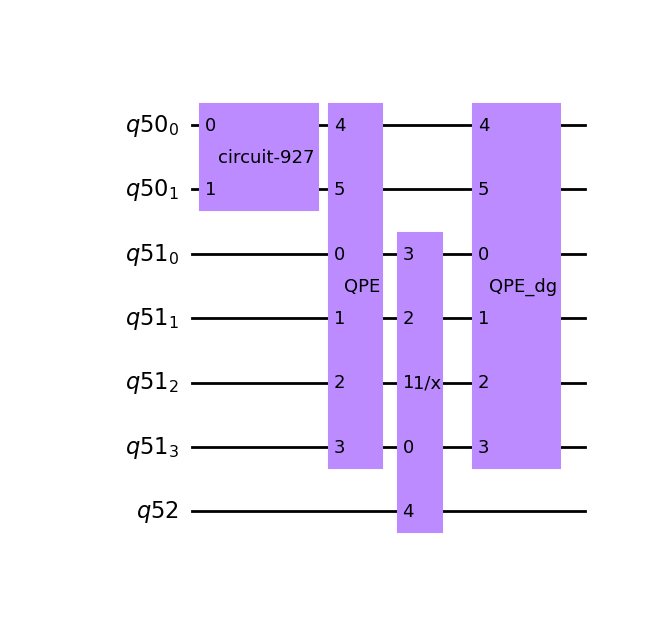
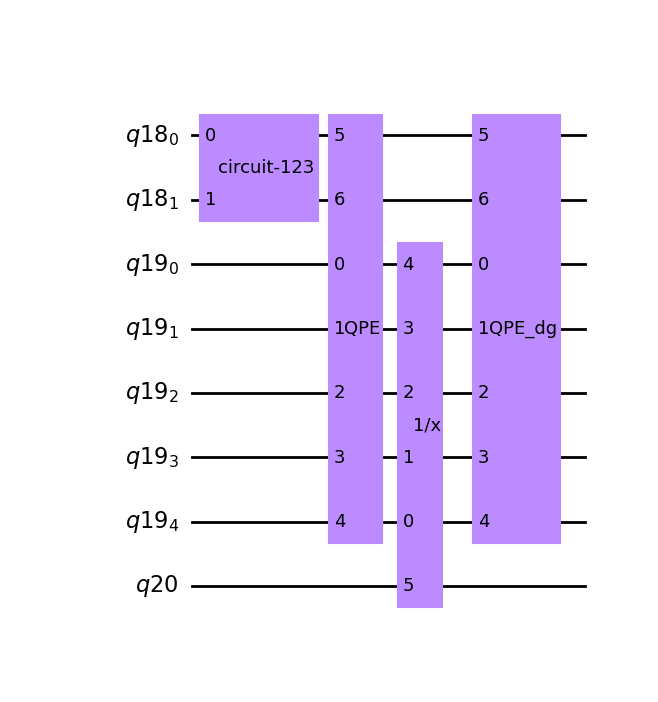
add eigenvalue calculation part so that values are setted properly add statevector simulation part

diff --git a/solver.py b/solver.py
@@ -5,22 +5,36 @@ from qiskit.algorithms.linear_solvers.hhl import HHL
 from qiskit.quantum_info import Statevector
 from normalize import normalize_vector
 from qiskit import QuantumCircuit, ClassicalRegister, QuantumRegister
+from value_setter import value_setter
 
-
-def HHL_my(A, b, delta, wrap = True):
+def HHL_my(A, b, wrap = True, state_vector = True):
     #기초 회로 구성, 입력값: A(행렬), b(벡터), nl(사용하는 qubit의 수, 높을 수록 정확도가 높아짐), delta(evolution time t와 reciprocal 과정에서의 scaling을 결정), wrap(회로를 합쳐서 볼지 결정)
-    nl = 3
-    qc = circuit(A, b, nl, delta, wrap = wrap)
-    #양자 회로를 시뮬레이션하는 코드
-    aer_sim = Aer.get_backend('aer_simulator')
-    shots = 8192
-    t_qpe = transpile(qc, aer_sim)
-    qobj = assemble(t_qpe, shots=shots)
-    results = aer_sim.run(qobj).result()
-    #시뮬레이션된 결과를 dictionary로 받음
-    answer = results.get_counts()
-    #실험 결과를 통해서 noramlize된 결과를 얻음
-    vector = normalize_vector(answer, int(np.log2(len(b))))
+    nl, evolution_time, delta = value_setter(A)
+    qc = circuit(A, b, nl, evolution_time, delta, wrap = wrap, state_vector = state_vector)
+    if state_vector:
+        naive_sv = Statevector(qc).data
+        #qubit수를 확인
+        num_qubit = qc.num_qubits
+        #상태 벡터에서 필요한 상태만을 골라서 저장함
+        #print(naive_sv)
+        naive_full_vector = np.array([naive_sv[2**(num_qubit-1)], naive_sv[2**(num_qubit-1)+1], naive_sv[2**(num_qubit-1)+2], naive_sv[2**(num_qubit-1)+3]])
+        #실수 부분만 취함
+        naive_full_vector = np.real(naive_full_vector)
+        #얻어진 벡터를 normalize하여 반환
+        #print(naive_full_vector)
+        vector = naive_full_vector/np.linalg.norm(naive_full_vector)
+    else:
+        #양자 회로를 시뮬레이션하는 코드
+        aer_sim = Aer.get_backend('aer_simulator')
+        shots = 8192
+        t_qpe = transpile(qc, aer_sim)
+        qobj = assemble(t_qpe, shots=shots)
+        results = aer_sim.run(qobj).result()
+        #시뮬레이션된 결과를 dictionary로 받음
+        answer = results.get_counts()
+        #실험 결과를 통해서 noramlize된 결과를 얻음
+        vector = normalize_vector(answer, int(np.log2(len(b))))
+    
     return vector
 
 
@@ -35,8 +49,10 @@ def HHL_qiskit(A,b):
     solution.state.draw("mpl").savefig("HHL_circuit_qiskit.png")
     #연산된 상태를 상태 벡터의 형태로 결과를 얻음
     naive_sv = Statevector(solution.state).data
+    #qubit수를 확인
+    num_qubit = solution.state.num_qubits
     #상태 벡터에서 필요한 상태만을 골라서 저장함
-    naive_full_vector = np.array([naive_sv[64], naive_sv[65], naive_sv[66], naive_sv[67]])
+    naive_full_vector = np.array([naive_sv[2**(num_qubit-1)], naive_sv[2**(num_qubit-1)+1], naive_sv[2**(num_qubit-1)+2], naive_sv[2**(num_qubit-1)+3]])
     #실수 부분만 취함
     naive_full_vector = np.real(naive_full_vector)
     #얻어진 벡터를 normalize하여 반환

diff --git a/main.py b/main.py
@@ -8,7 +8,7 @@ HHL 알고리즘에 대한 이해를 위해서 qiskit에서 제공하는 HHL 알
 임의의 선형 방정식 Ax=b (A가 Hermition이 아니여도 됨)에 대해서 A와 b가 주어졌을 때 normalize된 x 벡터를 구하는 코드이다. 
 실제 값을 얻기 위해서는 normalize된 벡터를 다시 Ax = b에 대입하여 특정한 상수를 구해주는 과정이 추가적으로 필요하다.
 """
-def main(A, b, wrap = True):
+def main(A, b, wrap = True, state_vector = True):
     #A가 Hermition인지 아닌지를 확인하고 A가 Hermition이 아닐 경우 0벡터를 추가하여 Hermition의 형태가 되도록 한다.
     """
     ex) A = [[a,b],     
@@ -35,9 +35,8 @@ def main(A, b, wrap = True):
         A = np.vstack((np.hstack((np.zeros_like(A),A)),np.hstack((A.conj().T, np.zeros_like(A)))))
         b = np.hstack((b, np.zeros_like(b)))
     # delta를 통해서 evolution time t와 reciprocal 과정에서의 scaling을 결정한다. 이 코드에서는 임의의 값으로 설정함
-    delta = 1/16
     #재구성한 모델
-    my_sol = HHL_my(A, b, delta, wrap = wrap)
+    my_sol = HHL_my(A, b, wrap = wrap, state_vector = state_vector)
     #원본 qiskit 모델
     qiskit_sol = HHL_qiskit(A,b) 
     #고전적인 계산 결과
@@ -49,13 +48,13 @@ def main(A, b, wrap = True):
     print('classical solution:', classical_sol)
     #고전적인 결과와 비교하였을 때 모델에 대한 에러
     my_err = np.linalg.norm(classical_sol-my_sol)
-    qiskit_err = np.linalg.norm(classical_sol-np.absolute(qiskit_sol))
+    qiskit_err = np.linalg.norm(classical_sol-qiskit_sol)
     print("my error:", my_err)
     print("qiskit error:", qiskit_err)
 if __name__ == "__main__":
     #A, b입력
-    A = np.array([[2,-1],[1,4]])
-    b = np.array([1,1])
-    main(A,b, wrap = False)
+    A = np.array([[1,2],[3,4]])
+    b = np.array([5,6])
+    main(A,b, wrap = False, state_vector = True)
     
     

diff --git a/circuit.py b/circuit.py
@@ -3,11 +3,11 @@ from qiskit import QuantumCircuit, QuantumRegister, ClassicalRegister
 from QPE import QPE, qpe_qiskit
 from rotation import rotation, Reciprocal
 from initialize import make_b_state
-def circuit(A, b, nl, delta, wrap = True):
+def circuit(A, b, nl, evolution_time, delta, wrap = True, state_vector = True):
     #flag qubit의 갯수, 상태 준비가 확률적인 경우 늘릴 필요가 있음
     nf = 1
     #evolution time 정의, eigenvalue에 따라서 다르게 정의할 필요가 있음
-    t = 2* np.pi * delta
+    t = evolution_time
     #eigenvalue가 음수일 경우 -를 포함하는 qubit이 필요하고 이것을 boolean으로 표현
     neg_vals = True
     #b벡터를 normalize된 양자 상태로 바꾸는 회로
@@ -38,7 +38,7 @@ def circuit(A, b, nl, delta, wrap = True):
     qc_rot = rotation(nl)
     """
     #qiskit에서 제공하는 Reciprocal 함수를 사용해서 f qubit에 대한 회전을 구현 
-    qc_rot = Reciprocal(nl, delta = delta*(2**(nl-1)), neg_vals = neg_vals)
+    qc_rot = Reciprocal(nl, delta = delta, neg_vals = neg_vals)
 
     if wrap:
         #QPE, reciprocal, QPE inverse를 순서대로 추가, 각각을 하나의 instruction으로 표현
@@ -52,12 +52,15 @@ def circuit(A, b, nl, delta, wrap = True):
         qc = qc.compose(init_b, nb_rg[:])
         qc.barrier()
         qc = qc.compose(qc_qpe,nl_rg[:]+nb_rg[:])
-        qc = qc.compose(qc_rot,[nl_rg[2]]+[nl_rg[1]]+[nl_rg[0]]+nf_rg[:])
+        qc = qc.compose(qc_rot,[nl_rg[i] for i in reversed(range(nl))]+nf_rg[:])
         qc = qc.compose(qc_qpet,nl_rg[:]+nb_rg[:])
     qc.barrier()
     #각 register들을 측정한다
-    qc.measure(nf_rg,cf)
-    qc.measure(nb_rg,cb)
+    if state_vector:
+        pass
+    else:
+        qc.measure(nf_rg,cf)
+        qc.measure(nb_rg,cb)
     #회로 그림을 저장
     if wrap:
         qc.draw("mpl").savefig("HHL_circuit_wrapped.png")

diff --git a/value_setter.py b/value_setter.py
@@ -1,0 +1,28 @@
+import numpy as np
+
+def get_eigenvalue(A):
+    lambda_max = max(np.abs(np.linalg.eigvals(A)))
+    lambda_min = min(np.abs(np.linalg.eigvals(A)))
+    if np.any(np.linalg.eigvals(A)< 0):
+        neg_vals = True
+    else:
+        neg_vals = False
+    return lambda_max, lambda_min, neg_vals
+
+def value_setter(A):
+    lambda_max, lambda_min, neg_vals = get_eigenvalue(A)
+    kappa = np.linalg.cond(A)
+    nb = int(np.log2(len(A[0])))
+    n_l = max(nb + 1, int(np.ceil(np.log2(kappa + 1)))) + neg_vals
+    formatstr = "#0" + str(n_l-neg_vals + 2) + "b"
+    lambda_min_tilde = np.abs(lambda_min * (2**(n_l-neg_vals) - 1) / lambda_max)
+    # floating point precision can cause problems
+    if np.abs(lambda_min_tilde - 1) < 1e-7:
+        lambda_min_tilde = 1
+    binstr = format(int(lambda_min_tilde), formatstr)[2::]
+    lamb_min_rep = 0
+    for i, char in enumerate(binstr):
+        lamb_min_rep += int(char) / (2 ** (i + 1))
+    delta = lamb_min_rep
+    evolution_time = 2 * np.pi * delta / lambda_min / (2**neg_vals)
+    return n_l, evolution_time, delta
